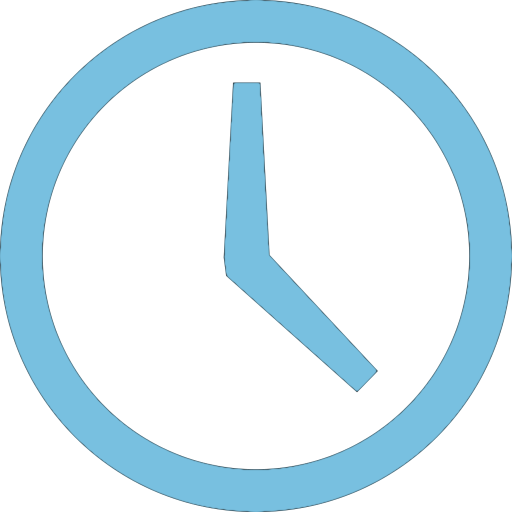
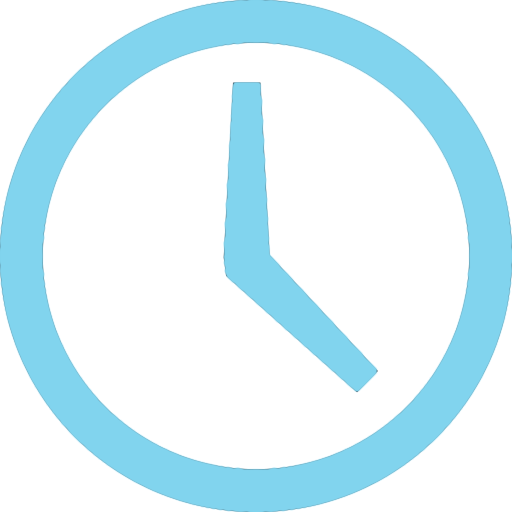
Адаптируемый размер виджета музыки

diff --git a/eww.scss b/eww.scss
@@ -6,14 +6,16 @@
 }
 
 .wbar_time {
-    color: #78C0E0;
+    color: #81d4ee;
 }
 
 .wbar_music_author {
     color: #d95d39;
 }
 
-.wbar_music_separator
+.wbar_music_separator{
+    color: #e7dfe8;
+}
 
 .wbar_music_title {
     color: #e7dfe8;
